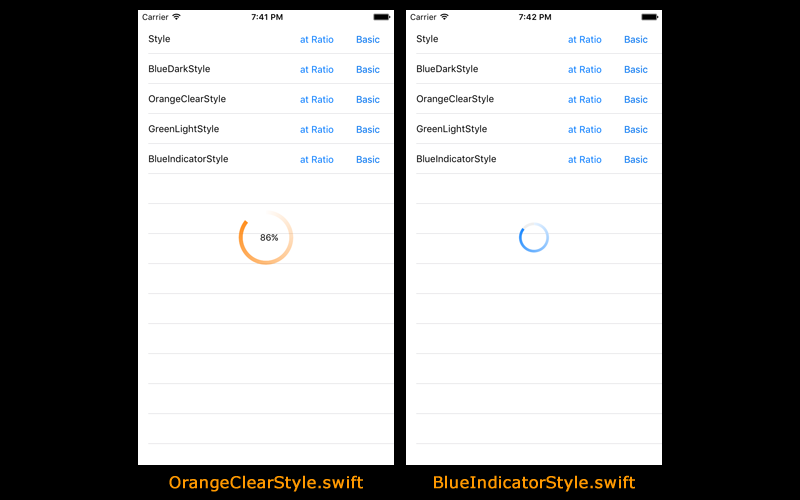
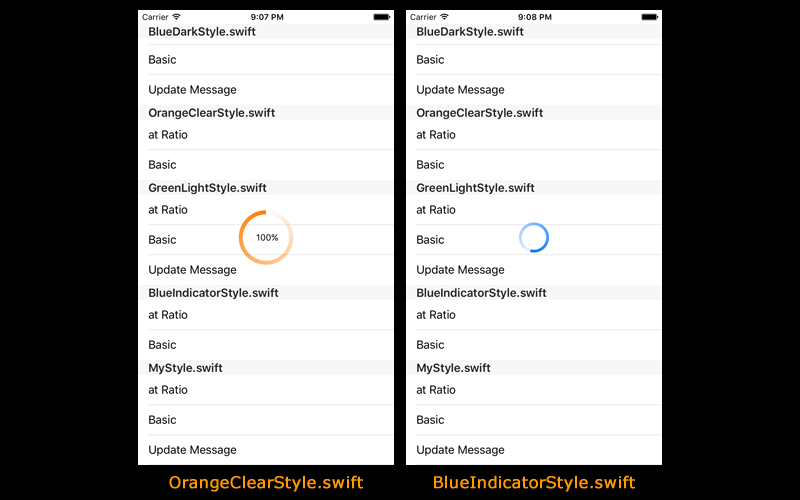
Update README

diff --git a/Source/CircularProgressView.swift b/Source/CircularProgressView.swift
@@ -12,6 +12,38 @@ import UIKit
 class CircularProgressView : UIView {
     
     var prop: Property?
+    var messageLabel = UILabel()
+    var centerPoint: CGPoint?
+    
+    var message: String? {
+        willSet {
+            messageLabel.frame = self.frame
+            messageLabel.text = newValue
+            
+            guard let message = messageLabel.text else {
+                return
+            }
+            
+            // Attribute
+            let paragraphStyle = NSMutableParagraphStyle()
+            paragraphStyle.lineHeightMultiple = 1.2;
+            paragraphStyle.alignment = NSTextAlignment.Center
+            let attr = [NSParagraphStyleAttributeName: paragraphStyle]
+            let attributedString = NSMutableAttributedString(string: message, attributes: attr)
+            
+            messageLabel.attributedText = attributedString
+            
+            messageLabel.sizeToFit()
+            
+            if centerPoint == nil {
+                centerPoint = self.center
+            }
+            
+            if let center = centerPoint {
+                messageLabel.center = center
+            }
+        }
+    }
     
     override init(frame: CGRect) {
         super.init(frame: frame)
@@ -76,14 +108,13 @@ class CircularProgressView : UIView {
         }
         
         // Message
-        let messageLabel: UILabel = UILabel(frame: self.frame)
-        messageLabel.text = message
         messageLabel.font = prop.messageLabelFont
         messageLabel.textAlignment = NSTextAlignment.Center
         messageLabel.textColor = prop.messageLabelFontColor
-        messageLabel.sizeToFit()
-        messageLabel.center = self.center
-        
+        messageLabel.numberOfLines = 0
+
         self.addSubview(messageLabel)
+        
+        self.message = message
     }
 }

diff --git a/Source/GradientCircularProgress.swift b/Source/GradientCircularProgress.swift
@@ -58,6 +58,16 @@ public class GradientCircularProgress {
         getProgress(message: message, style: style)
     }
     
+    public func updateMessage(message message: String) -> Void {
+        if available {
+            return
+        }
+        
+        if let vc = progressViewController {
+            vc.updateMessage(message)
+        }
+    }
+    
     private func getProgress(message message: String?, style: StyleProperty) {
         baseWindow = BaseWindow()
         progressViewController = ProgressViewController()

diff --git a/Source/ProgressViewController.swift b/Source/ProgressViewController.swift
@@ -137,6 +137,15 @@ class ProgressViewController : UIViewController {
         circularProgressView.center = self.view.center
         self.view.addSubview(circularProgressView)
     }
+    
+    internal func updateMessage(message: String) {
+        
+        guard let circularProgressView = circularProgressView else {
+            return
+        }
+        
+        circularProgressView.message = message
+    }
   
     internal func dismiss(t: Double) {
         

diff --git a/README.md b/README.md
@@ -104,6 +104,15 @@ public struct MyStyle : StyleProperty {
 ```swift
 import GradientCircularProgress
 ```
+### Basic
+```swift
+let progress = GradientCircularProgress()
+
+progress.show(message: "Loading...", MyStyle())
+progress.dismiss()
+```
+
+### at Rtio
 ```swift
 let progress = GradientCircularProgress()
 
@@ -113,11 +122,23 @@ progress.showAtRatio(style: MyStyle())
 progress.updateRatio(ratio)
 progress.dismiss()
 ```
+
+### Update Message
 ```swift
 let progress = GradientCircularProgress()
 
-progress.show(message: "Loading...", MyStyle())
-progress.dismiss()
+progress.show(message: "Download\n0 / 4", MyStyle())
+
+progress.show(message: "Download\n1 / 4", MyStyle())
+progress.show(message: "Download\n2 / 4", MyStyle())
+progress.show(message: "Download\n3 / 4", MyStyle())
+progress.show(message: "Download\n4 / 4", MyStyle())
+
+let time = dispatch_time(DISPATCH_TIME_NOW, Int64(0.8 * Double(NSEC_PER_SEC)))
+dispatch_after(time, dispatch_get_main_queue()) {
+    self.progress.updateMessage(message: "Completed!")
+    self.progress.dismiss()
+}
 ```
 
 ## Download Progress Examples
@@ -182,6 +203,8 @@ public func updateRatio(ratio: CGFloat)
 public func show(style style: StyleProperty = Style()) -> Void
 
 public func show(message message: String, style: StyleProperty = Style()) -> Void
+
+public func updateMessage(message message: String) -> Void
 
 public func dismiss() -> Void
 
